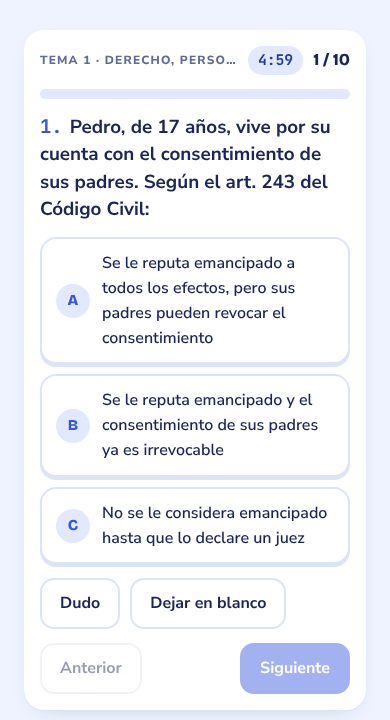
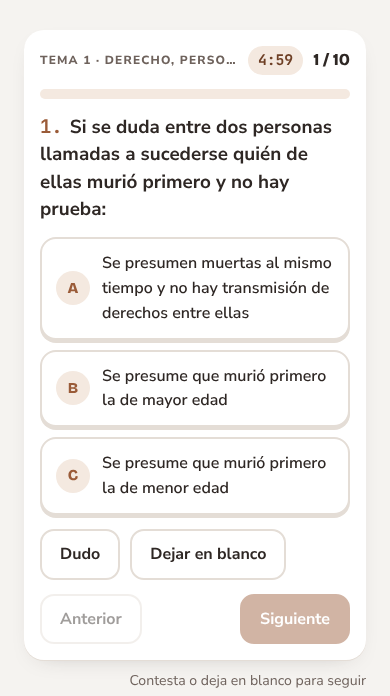
Capturas de la app con los colores nuevos de Ruvï
Claude-Session: https://claude.ai/code/session_01GNCF3NPRTdAWHvtf7uY5gg

diff --git a/index.html b/index.html
@@ -27,7 +27,7 @@
     <p class="lead">Hacemos el trabajo pesado para que las academias se centren en enseñar y sus alumnos en aprobar. Hechas por opositores, con el examen real en la cabeza.</p>
     <div class="btns"><a class="btn p" href="/plantilla-repaso/">Conoce Plantilla de Repaso</a><a class="btn s" href="#contacto">Hablemos</a></div>
   </div>
-  <div style="display:flex;justify-content:center"><div class="movil"><img src="/img/app-pregunta.png" alt="Una pregunta tipo test de Plantilla de Repaso en el móvil, con tres opciones y el cronómetro" width="390" height="720"></div></div>
+  <div style="display:flex;justify-content:center"><div class="movil"><img src="/img/app-pregunta.png" alt="Una pregunta tipo test de Plantilla de Repaso en el móvil, con tres opciones y el cronómetro" width="390" height="696"></div></div>
 </div></section>
 
 <section id="proyectos" style="padding-top:0"><div class="in stack">

diff --git a/plantilla-repaso/index.html b/plantilla-repaso/index.html
@@ -38,7 +38,7 @@
 </div></section>
 
 <section class="banda"><div class="in dos inv">
-  <div style="display:flex;justify-content:center"><div class="movil"><img src="/img/app-resultado.png" alt="Resultado de un test: la nota sobre 10, aciertos, errores y preguntas en blanco, y la cuenta de cómo se calcula" width="390" height="500"></div></div>
+  <div style="display:flex;justify-content:center"><div class="movil"><img src="/img/app-resultado.png" alt="Resultado de un test: la nota sobre 10, aciertos, errores y preguntas en blanco, y la cuenta de cómo se calcula" width="390" height="484"></div></div>
   <div class="stack">
     <span class="eb">Qué incluye</span>
     <h2>Practicar como en el examen y entender cada fallo</h2>

diff --git a/_construir.py b/_construir.py
@@ -82,7 +82,7 @@ escribir("/", cabeza("Ruvï · Herramientas para preparar oposiciones",
     <p class="lead">Hacemos el trabajo pesado para que las academias se centren en enseñar y sus alumnos en aprobar. Hechas por opositores, con el examen real en la cabeza.</p>
     <div class="btns"><a class="btn p" href="/plantilla-repaso/">Conoce Plantilla de Repaso</a><a class="btn s" href="#contacto">Hablemos</a></div>
   </div>
-  <div style="display:flex;justify-content:center"><div class="movil"><img src="/img/app-pregunta.png" alt="Una pregunta tipo test de Plantilla de Repaso en el móvil, con tres opciones y el cronómetro" width="390" height="720"></div></div>
+  <div style="display:flex;justify-content:center"><div class="movil"><img src="/img/app-pregunta.png" alt="Una pregunta tipo test de Plantilla de Repaso en el móvil, con tres opciones y el cronómetro" width="390" height="696"></div></div>
 </div></section>
 
 <section id="proyectos" style="padding-top:0"><div class="in stack">
@@ -139,7 +139,7 @@ escribir("/plantilla-repaso/", cabeza("Plantilla de Repaso · Tu temario, conver
 </div></section>
 
 <section class="banda"><div class="in dos inv">
-  <div style="display:flex;justify-content:center"><div class="movil"><img src="/img/app-resultado.png" alt="Resultado de un test: la nota sobre 10, aciertos, errores y preguntas en blanco, y la cuenta de cómo se calcula" width="390" height="500"></div></div>
+  <div style="display:flex;justify-content:center"><div class="movil"><img src="/img/app-resultado.png" alt="Resultado de un test: la nota sobre 10, aciertos, errores y preguntas en blanco, y la cuenta de cómo se calcula" width="390" height="484"></div></div>
   <div class="stack">
     <span class="eb">Qué incluye</span>
     <h2>Practicar como en el examen y entender cada fallo</h2>
